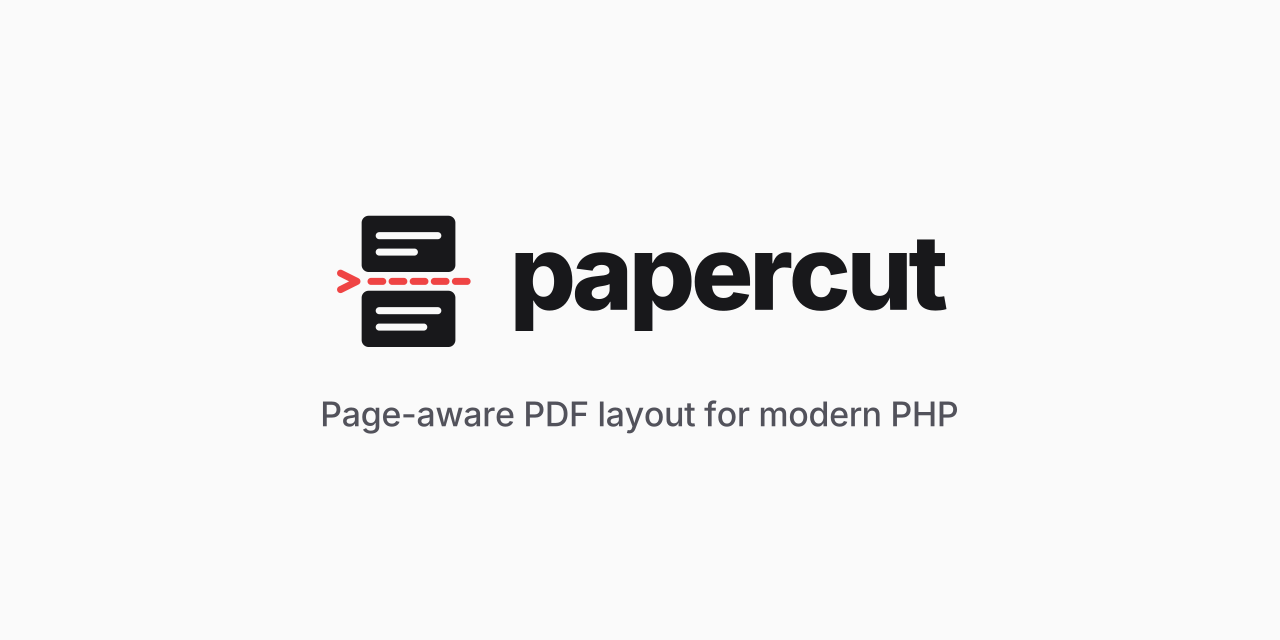
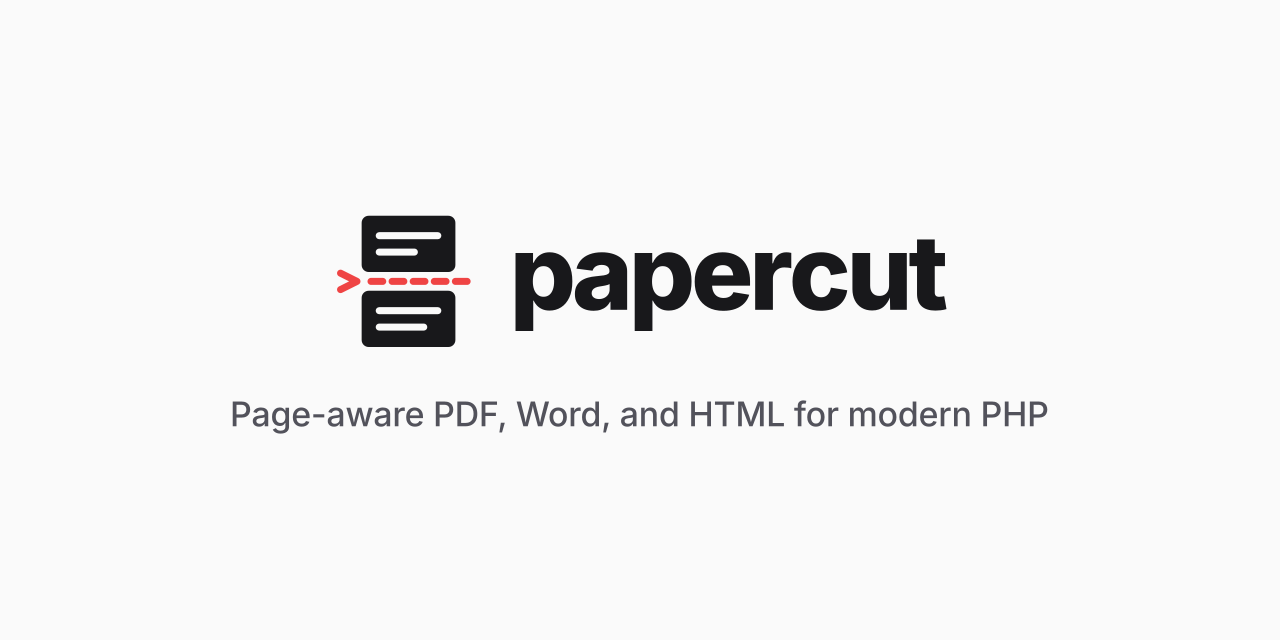
docs: README, descriptions and social image name PDF, Word, and HTML

Changed region(s): [[0.1562, 0.625, 0.8125, 0.6875]]

diff --git a/site/src/.vuepress/config.ts b/site/src/.vuepress/config.ts
@@ -12,7 +12,7 @@ const base = (process.env.DOCS_BASE ?? '/papercut/') as `/${string}/`
 export default defineUserConfig({
   lang: 'en-US',
   title: 'Papercut',
-  description: 'Paperwork without the sting. Page-aware PDF, Word and HTML layout for PHP and Laravel, written in Blade or plain PHP.',
+  description: 'Paperwork without the sting. Page-aware PDF, Word, and HTML layout for PHP and Laravel, written in Blade or plain PHP.',
   base,
 
   head: [

diff --git a/README.md b/README.md
@@ -8,16 +8,15 @@
 [![core](https://github.com/One-Learning-Community/papercut/actions/workflows/core.yml/badge.svg)](https://github.com/One-Learning-Community/papercut/actions/workflows/core.yml)
 [![laravel](https://github.com/One-Learning-Community/papercut/actions/workflows/laravel.yml/badge.svg)](https://github.com/One-Learning-Community/papercut/actions/workflows/laravel.yml)
 
-Blade components that compile to a real layout engine, not HTML.
+**Page-aware PDF, Word, and HTML for modern PHP.**
 
-Papercut is a PDF library for modern PHP. You write `<x-doc::*>` tags in Blade; they become a tree of
-typed, immutable components with flexbox layout and page-aware pagination, and a pure-PHP engine turns
-that tree into a PDF, written by Denis Skripchenko's [php-pdf](https://github.com/dskripchenko/php-pdf) (see [Built on](#built-on)). There is no browser and no CSS cascade: templates are not parsed as HTML. The tag vocabulary
-is small, strict and ours, and a typo in an attribute is an error that names the tag, not a silently wrong page.
+Write documents as Blade views, or build them with a fluent PHP API. Papercut lays them out page by page: table headers repeat, rows aren't cut in half, headings stay with what follows them, and `Page {page} of {total}` is one tag. It's pure PHP, with PDFs written by Denis Skripchenko's [php-pdf](https://github.com/dskripchenko/php-pdf) (see [Built on](#built-on)), so there's no headless Chrome, wkhtmltopdf or Node on your server. The same template also exports to HTML, and to Word (experimental).
 
-**[Documentation](https://one-learning-community.github.io/papercut/)** · [Guide](https://one-learning-community.github.io/papercut/guide/) · [Laravel](https://one-learning-community.github.io/papercut/laravel/) · [Reference](https://one-learning-community.github.io/papercut/reference/blade-tags.html) · [Examples](https://one-learning-community.github.io/papercut/examples.html)
+Templates use a small set of `<x-doc::*>` tags instead of HTML and CSS. That's what keeps pagination predictable, and it makes mistakes loud: a typo in an attribute is an error that names the tag, not a silently wrong page. HTML you already have, such as rich text from an editor, comes in through `<x-doc::markup>`.
 
-> **Status: 0.3, early release.** Before 1.0 a minor version (0.4) may change the API; patch versions won't. See [Status](#status) below.
+**[Documentation](https://one-learning-community.github.io/papercut/)** · [Guide](https://one-learning-community.github.io/papercut/guide/) · [Laravel](https://one-learning-community.github.io/papercut/laravel/) · [Recipes](https://one-learning-community.github.io/papercut/laravel/recipes.html) · [Reference](https://one-learning-community.github.io/papercut/reference/blade-tags.html) · [Examples](https://one-learning-community.github.io/papercut/examples.html)
+
+> **Status: 0.6, before 1.0.** Until 1.0 a minor version may change the API; patch versions won't. See [Status](#status) below.
 
 ## A Blade document
 
@@ -53,19 +52,37 @@ return $invoice->html();                           // full HTML page
 return $invoice->docx()->download('invoice.docx'); // Word (experimental), with papercut/docx installed
 ```
 
+## In a Laravel app
+
+```php
+// Attach to a mailable or notification; it renders when attached.
+public function attachments(): array
+{
+    return [Papercut::view('pdf.invoice', ['invoice' => $this->invoice])->pdf()->attachment('invoice.pdf')];
+}
+
+// Store on any disk, for example from a queued job.
+Papercut::view('pdf.report', ['report' => $report])->pdf()->store("reports/{$report->id}.pdf", 's3');
+
+// Download from a Livewire or Filament action.
+return Papercut::view('pdf.invoice', ['invoice' => $invoice])->pdf()->streamDownload('invoice.pdf');
+```
+
+Preview routes render each document with sample data at a fixed URL while you work on it. The [recipes](https://one-learning-community.github.io/papercut/laravel/recipes.html) cover queues, S3, mail, Livewire, Filament and SVG charts.
+
 ## Features
 
 - Flexbox-style layout: rows, columns, `gap`, `grow`, `justify`, `align`, spacers.
-- Page-aware tables: rows split across pages, never through a row unless a row is taller than a page.
-- Repeated table headers on every page a table crosses.
-- Keep-together and keep-with-next, so a heading is not stranded at the bottom of a page.
-- Page numbers with a page count: `Page {page} of {total}`.
-- Real fonts: every document embeds fonts (Inter is bundled; register your own families), with subsetting and fallback families. The 14 standard PDF fonts are not used.
+- Page-aware tables: rows split across pages, never through a row unless a row is taller than a page; headers repeat on every page a table crosses; cells can span rows and columns.
+- Keep-together and keep-with-next, so a heading isn't stranded at the bottom of a page.
+- Page numbers with a page count (`Page {page} of {total}`), bookmarks built from headings, and a table of contents with page numbers, dot leaders and links.
+- Real fonts: every document embeds its fonts (Inter is bundled; register your own families; in Laravel, one command installs a Google Fonts family), with subsetting and fallback families. The 14 standard PDF fonts are not used.
 - Lists, links, images (PNG and JPEG; WebP, GIF, BMP and AVIF with `ext-gd`), SVG drawn as vectors, and QR codes, plain or styled.
-- Rich text from your data: `<x-doc::markup>` turns an HTML fragment or plain text (say, from a rich-text editor) into Papercut nodes.
+- Code blocks, with syntax highlighting through the optional `phiki/phiki` package.
+- Rich text from your data: `<x-doc::markup>` turns an HTML fragment or plain text (say, from a rich text editor) into Papercut nodes, and reports anything it couldn't convert.
 - PDF templates and placed content: draw a page of an existing PDF behind yours and place text at a point on it, for certificates and letterheads.
-- Bookmarks built from headings, and AES-256 encryption with permissions.
-- HTML export from the same template, and Word export (experimental) with `papercut/docx`.
+- AES-256 encryption with permissions.
+- HTML export from the same template, and Word export (experimental) with `papercut/docx`, which writes real Word headings, lists, tables and a table of contents field.
 - Decorators: ready-made card, callout, blockquote, section, field, choice list, key-value list and badge, restyled from the theme (`<x-doc::callout type="warning">`).
 - Composition: your own Blade components can contain `<x-doc::*>` tags (see `examples/laravel/views/components`).
 - Strict, readable errors for unknown attributes, bad values and invalid structure.
@@ -81,6 +98,9 @@ return $invoice->docx()->download('invoice.docx'); // Word (experimental), with 
    text fragmentation) into a backend-neutral display list.
 4. A thin backend adapter turns the display list into PDF objects via
    [`dskripchenko/php-pdf`](https://github.com/dskripchenko/php-pdf).
+
+HTML and Word exports walk the same node tree instead of the page layout, so they keep the document's
+structure (headings, lists, tables) for a browser or for Word to flow.
 
 ## Built on
 
@@ -120,13 +140,14 @@ The guide lives at [one-learning-community.github.io/papercut](https://one-learn
 
 ## Status
 
-0.3, the first release on Packagist. Before 1.0 a minor version may change the API; patch versions won't. No performance or compatibility benchmarks have been
-published; do not assume any. Requires PHP 8.4+ and Laravel 12 or 13 (CI tests against both).
+0.6, before 1.0. Until 1.0 a minor version may change the API; patch versions won't. Word export is experimental. No performance or compatibility benchmarks have been
+published; don't assume any. Requires PHP 8.4+, and Laravel 12 or 13 for `papercut/laravel` (CI tests against both).
 
 Not supported yet: HarfBuzz shaping (the backend exposes no glyph-level drawing API; its built-in shaping covers kerning
 and ligatures within runs), right-to-left and bidirectional paragraph layout, hyphenation, Knuth-Plass line breaking,
-multi-column text flow, form filling (AcroForms) and PDF/A. Signing and merging aren't built in, but
-php-pdf can do both to a Papercut PDF; see [Passwords, signatures and merging](https://one-learning-community.github.io/papercut/guide/passwords-and-signatures.html).
+multi-column text flow, fillable form fields (AcroForms) and PDF/A. Filling in an existing PDF works through page templates.
+Signing and merging aren't built in, but php-pdf can do both to a Papercut PDF; see
+[Passwords, signatures and merging](https://one-learning-community.github.io/papercut/guide/passwords-and-signatures.html).
 
 ## Licenses
 

diff --git a/CHANGELOG.md b/CHANGELOG.md
@@ -25,6 +25,7 @@ and the project follows [Semantic Versioning](https://semver.org/).
 - `InvalidStructure` moved to core as `Papercut\Exception\InvalidStructure`. `Papercut\Laravel\Exception\InvalidStructure` now extends it, so existing `catch` blocks keep working.
 - The guide example uses `Text::code()` for inline code and one string option (`->align('center')`).
 - The docs say that `columns()` accepts any length unit, and list the code block language aliases (`bash`, `sh`, `shell` and `zsh` for shell, `js`, `ts`, `py`, `yml`).
+- The README, the package descriptions and the social preview image name all three formats (PDF, Word, and HTML). The guide's limitations say "fillable form fields (AcroForms)" instead of "form filling", since filling in an existing PDF works, and the HTML export page says backgrounds and overlays are approximate.
 - The invoice and transcript examples use US Letter and inches instead of A4 and millimetres, so the examples show both (the report and form responses stay on A4). The transcript now runs to three pages.
 
 ### Fixed

diff --git a/site/src/guide/html-export.md b/site/src/guide/html-export.md
@@ -35,6 +35,7 @@ Browsers don't have pages, so a few things are approximated: fraction column wid
 
 - Even-page headers and footers aren't shown. HTML has one header and one footer for the whole run.
 - A first-page footer is shown only when the page has no normal footer. If it has both, the normal footer is shown.
+- Backgrounds and overlays cover the whole page section, which is at least one page tall and grows to fit its content. They're drawn once, not on every printed page, and overlay content is placed against that taller box, so it lands about where it does in the PDF. Both are reported as approximated.
 
 A few things are dropped, and [strict mode](./rich-text.md#strict-mode) fails an HTML export on them: PDF page templates and embedded PDF pages. Code highlighting that can't be done is dropped in every format, as [Code blocks](./text.md#code-blocks) explains. Without strict mode these are reported as warnings.
 

diff --git a/site/src/guide/README.md b/site/src/guide/README.md
@@ -33,11 +33,13 @@ Papercut does the layout; [php-pdf](https://github.com/dskripchenko/php-pdf), by
 
 ## Current limitations
 
-Papercut is at 0.5, and a few things aren't supported yet:
+Papercut is at 0.6, before 1.0, and a few things aren't supported yet:
 
 - complex text shaping (HarfBuzz), right-to-left and bidirectional text, and hyphenation
 - multi-column text flow
-- form filling and PDF/A
+- fillable form fields (AcroForms) and PDF/A
+
+Filling in an existing PDF works: [PDF templates](./pages.md#filling-in-an-existing-pdf) place your content on a page of another PDF.
 
 Kerning and ligatures do work. Signing and merging aren't built in, but php-pdf can do both to a Papercut PDF; see [Passwords, signatures and merging](./passwords-and-signatures.md).
 

diff --git a/packages/laravel/README.md b/packages/laravel/README.md
@@ -5,11 +5,11 @@
 
 # papercut/laravel
 
-Blade components for [Papercut](../../README.md): `<x-doc::*>` tags compile into Papercut's layout engine and out to a PDF. Not HTML-to-PDF.
+Blade components for [Papercut](../../README.md): `<x-doc::*>` tags compile into Papercut's layout engine and out to PDF, HTML or Word. Not HTML-to-PDF.
 
 **Documentation:** [one-learning-community.github.io/papercut/laravel](https://one-learning-community.github.io/papercut/laravel/)
 
-> **Status: 0.3, early release.** Before 1.0 a minor version (0.4) may change the API; patch versions won't.
+> **Status: 0.6, before 1.0.** Until 1.0 a minor version may change the API; patch versions won't.
 
 ## Install
 

diff --git a/packages/core/README.md b/packages/core/README.md
@@ -11,7 +11,7 @@ There is no browser and no CSS cascade.
 
 **Documentation:** [one-learning-community.github.io/papercut](https://one-learning-community.github.io/papercut/guide/)
 
-> **Status: 0.3, early release.** Before 1.0 a minor version may change the API. Using Laravel? See
+> **Status: 0.6, before 1.0.** Until 1.0 a minor version may change the API; patch versions won't. Using Laravel? See
 > [`papercut/laravel`](../laravel) for the Blade front end of this same engine.
 
 ## Requirements
